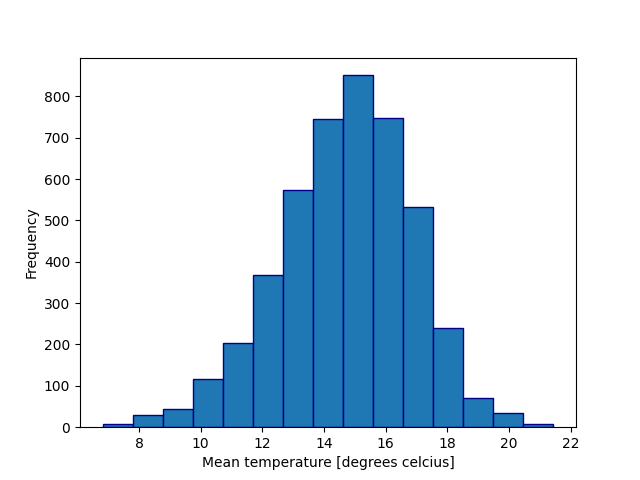
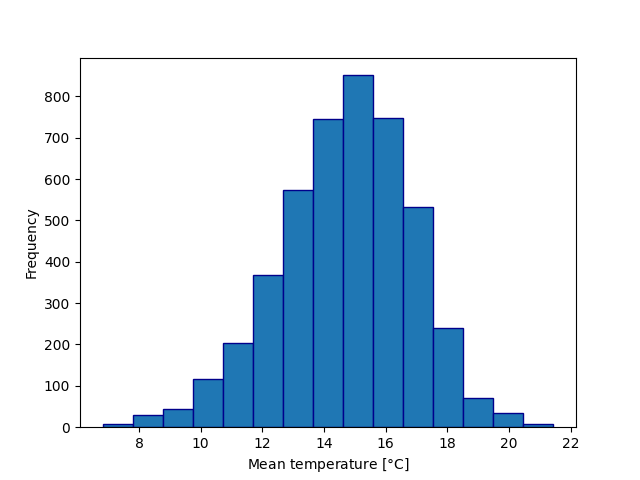
Update of axis

Changed region(s): [[0.3125, 0.9375, 0.7188, 1.0]]

diff --git a/12/stats_for_questions.py b/12/stats_for_questions.py
@@ -7,7 +7,7 @@ df = pd.read_csv(path, sep =',')
 
 # a) What is the distribution of the mean temperatures? Show your results as histograms.
 plt.hist(df["mean_temp"], bins=15,edgecolor="darkblue")
-plt.xlabel("Mean temperature [degrees celcius]")
+plt.xlabel("Mean temperature [$\degree$C]")
 plt.ylabel("Frequency")
 plt.savefig("12/12a_histogram.png")
 plt.show()
